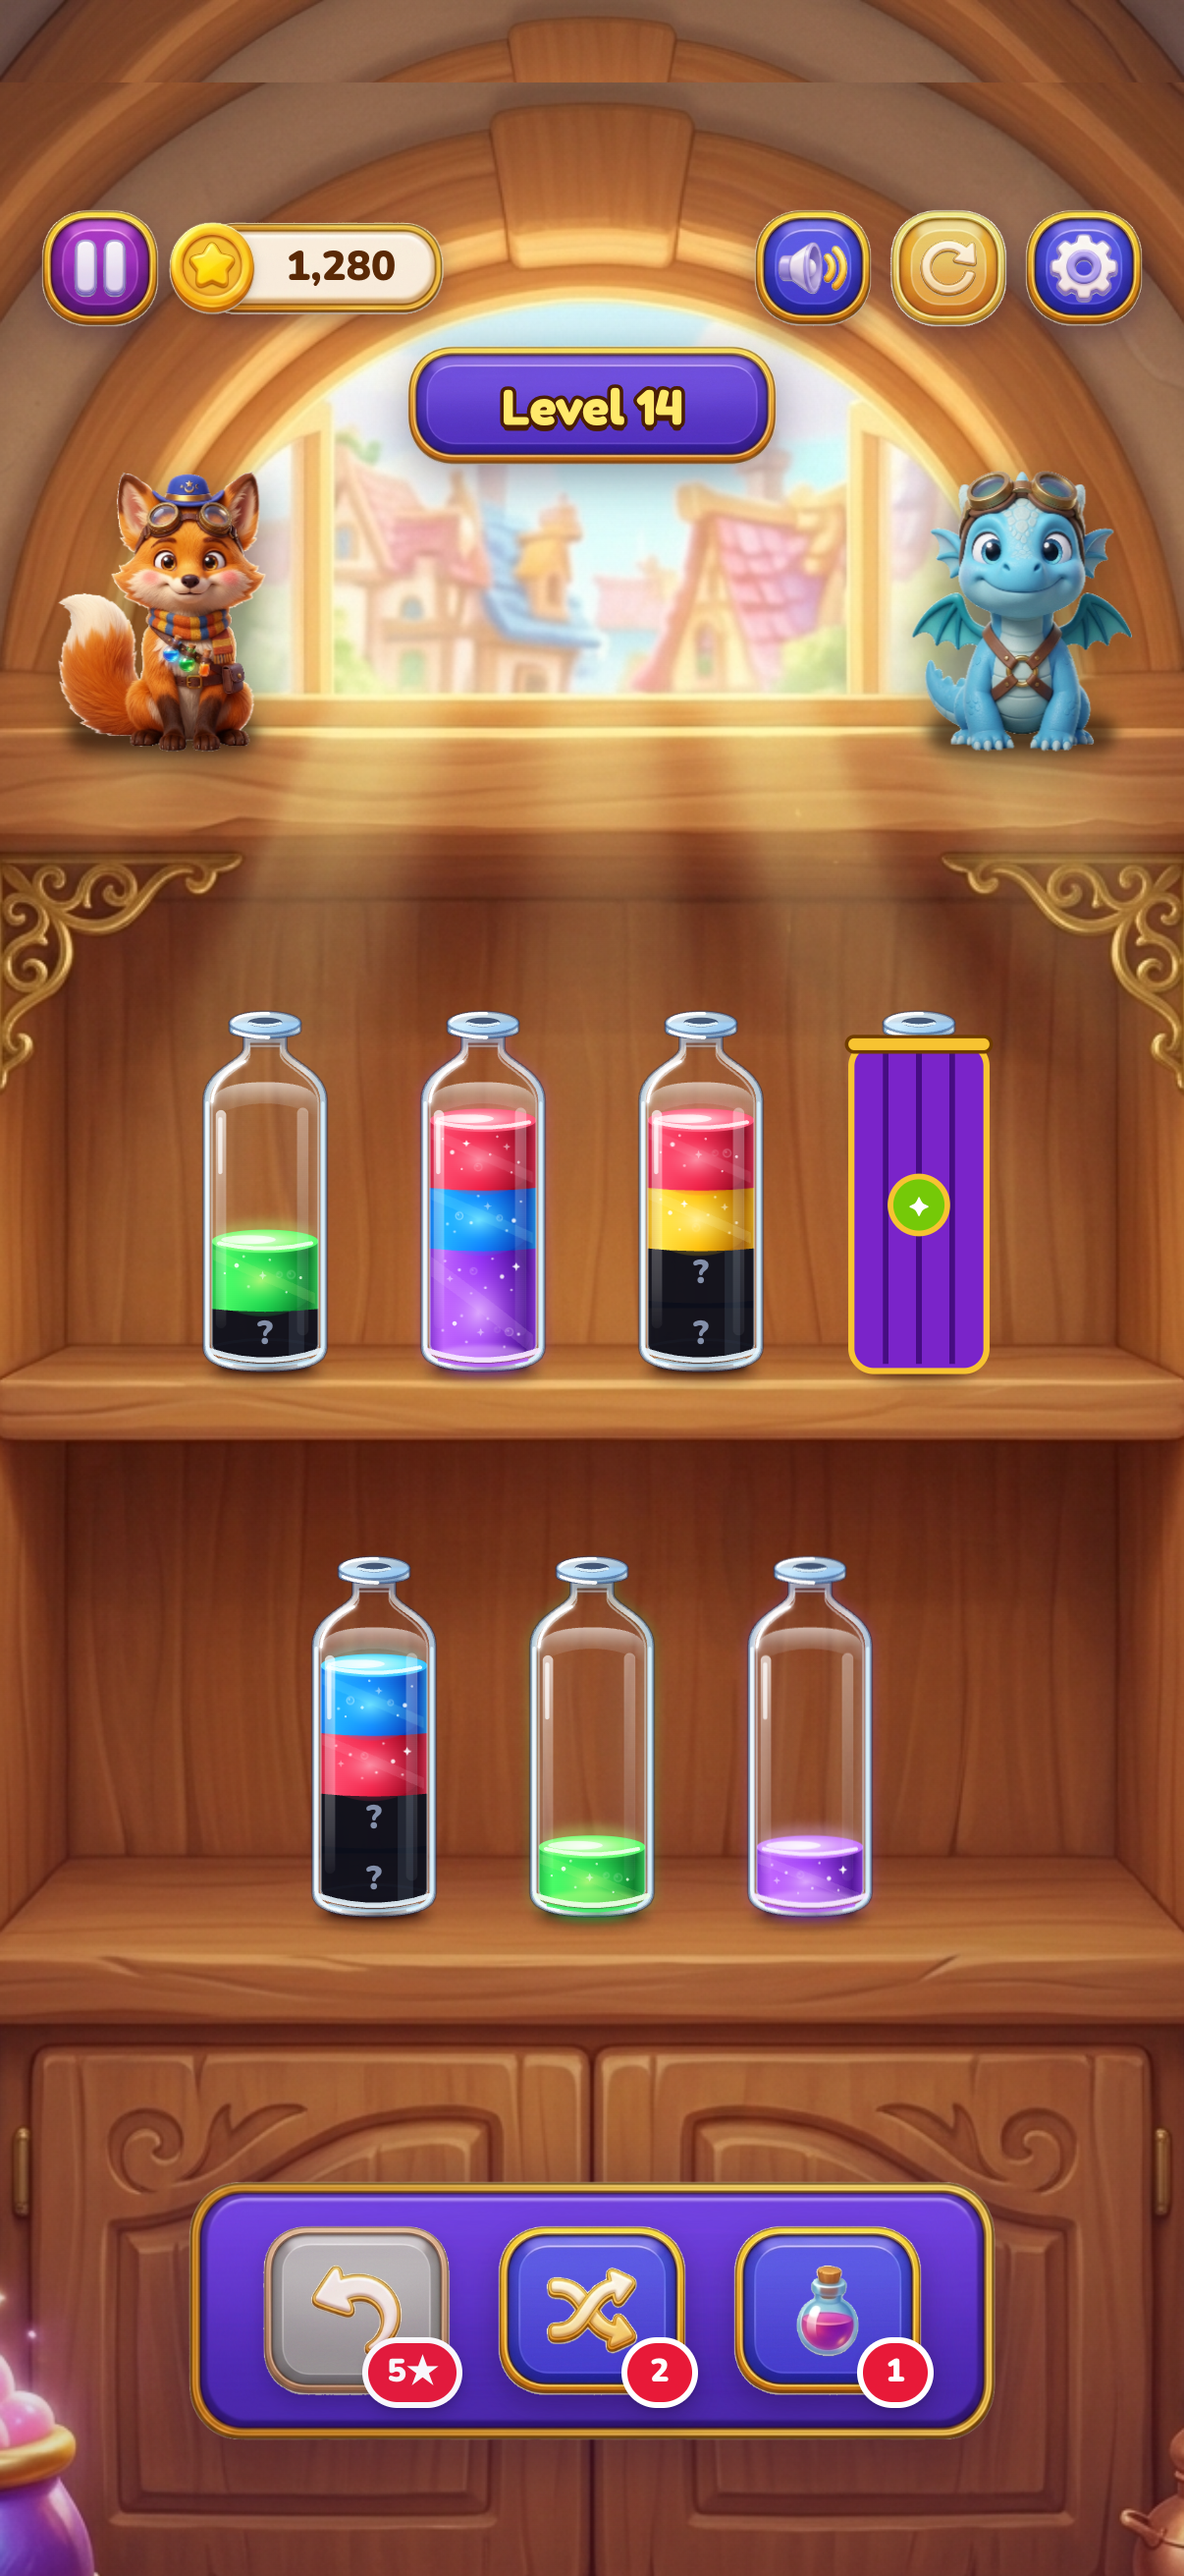
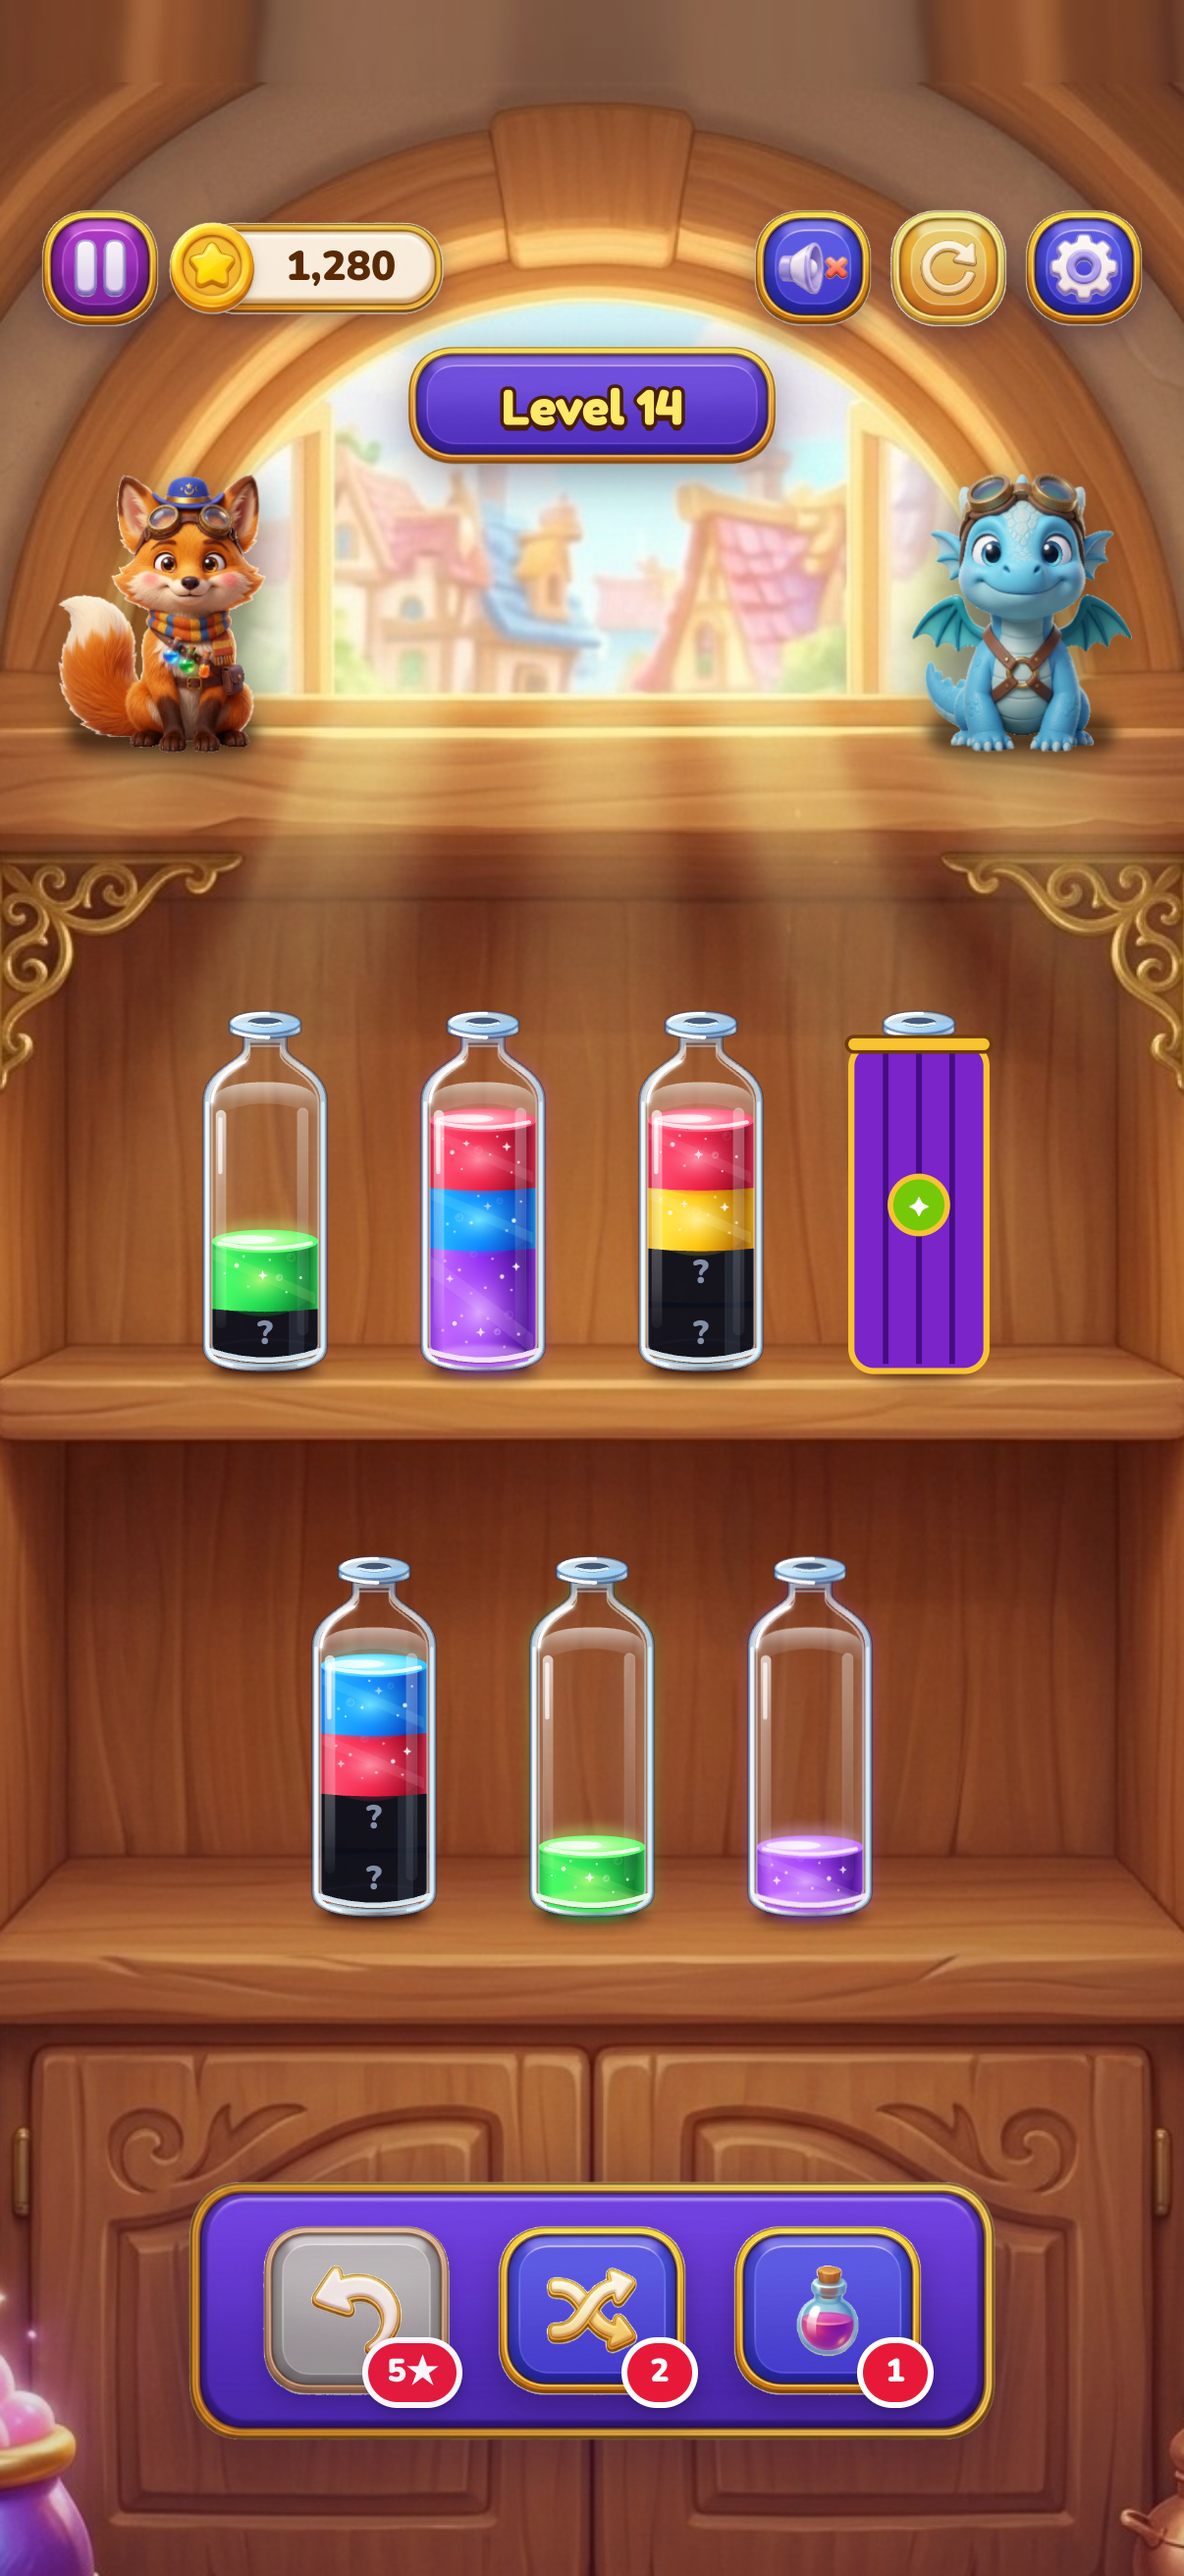
fix(gameplay): remove duplicated top strip on cabinet background
The stage background used a translateY(3.2%) offset plus a 56px duplicate
slice to fill the resulting gap, which produced a hard seam and a doubled
arch at the very top of the gameplay screen (visible in App Store screenshots).

Extend the artwork top edge by 44px (3.2% of the 1376px source, = 28pt at
device scale) and crop the same amount from the bottom, then drop the slice
and the transform. Composition and shelf alignment stay pixel-identical while
the top edge becomes continuous.

Re-render 02-gamplay screenshot at 1206x2622.

diff --git a/src/components/GameplayScreen.tsx b/src/components/GameplayScreen.tsx
@@ -1215,20 +1215,12 @@ export const GameplayScreen: React.FC<GameplayScreenProps> = ({
       ref={stageRef}
       className="relative w-full h-full flex flex-col justify-between overflow-hidden pt-[env(safe-area-inset-top)] pb-[env(safe-area-inset-bottom)] font-game-body select-none"
     >
-      {/* Seamless top extension slice + Cabinet background */}
-      <img
-        src={stageImage}
-        alt=""
-        aria-hidden="true"
-        referrerPolicy="no-referrer"
-        className="pointer-events-none absolute top-0 inset-x-0 w-full h-[56px] object-cover object-top"
-      />
+      {/* Cabinet background (top edge pre-extended in the artwork, no seam patch needed) */}
       <img
         src={stageImage}
         alt={stageAlt}
         referrerPolicy="no-referrer"
         className="absolute inset-0 w-full h-full object-cover object-center"
-        style={{ transform: 'translateY(3.2%)' }}
       />
       <div className={`pointer-events-none absolute inset-0 ${atmosphereOverlay}`} />
 
